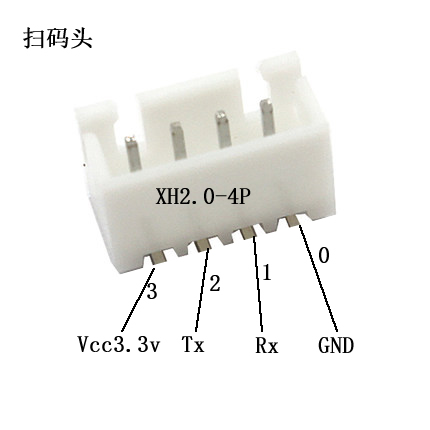
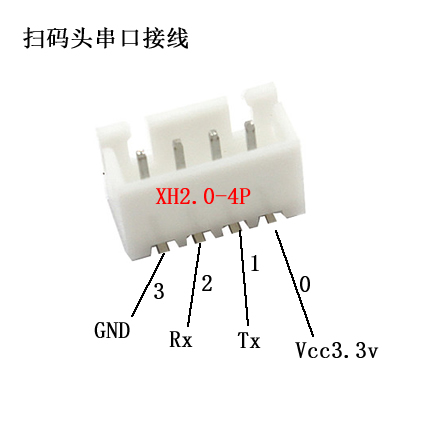
添加更多说明

Changed region(s): [[0.1814, 0.1512, 0.8767, 0.8465], [0.2116, 0.0605, 0.4535, 0.1209]]

diff --git a/README.md b/README.md
@@ -17,6 +17,8 @@
 - V2.0 生产出协议调试设备方便调试使用
 ## 四 历史版本
 
+**当前版本:100,代表v1.0，在握手时如适配此版本应在版本参数给100**
+
 版本|日期|修改者|内容
 ---|---|---|---
 V0.8|20180509|wangjianyi|初稿
@@ -55,7 +57,7 @@ V1.0|20180709|Benny|加入彩票机游戏结束过程
 0|Rx|串口接收TTL3.3v，建议对接的设备（盒子等）使用二极管隔离以防不慎将线插反导致损坏
 1|GND|共地
 2|Tx|串口发送TTL3.3v
-3|Vcc|给对接的设备（盒子等）供电12v
+3|Vcc|给对接的设备（盒子等）供电电压12v,电流200mA
 
 串口通讯规则如下：
 - 电平：TTL3.3v
@@ -75,10 +77,10 @@ V1.0|20180709|Benny|加入彩票机游戏结束过程
 
 脚位|定义|作用
 ---|---|---
-0|GND|共地
-1|Rx|串口接收TTL3.3v
-2|Tx|串口发送TTL3.3v
-3|Vcc|给对接的设备（盒子等）供电12v
+0|Vcc|给扫码头供电3.3v,500mA
+1|Tx|串口发送TTL3.3v
+2|Rx|串口接收TTL3.3v
+3|GND|共地
 
 
 ## 七 数据包基础规则
@@ -111,11 +113,12 @@ START|ADR|PID|LEN|DATA|CHK|END
 
 ### **8.1 握手(PID=0x0301)**
 
-版本:1
-
 数据方向:外接设备->游戏机
 
-说明：外接设备搜索游戏机，此时如果如果收不到游戏机的回应将会间隔500ms进行搜索，推荐如果1分钟内仍然搜索不到则每3秒一次进行搜索，直到连接成功。否则当离线处理
+说明：外接设备搜索游戏机，此时如果如果收不到游戏机的回应将会间隔500ms进行搜索，推荐如果1分钟内仍然搜索不到则每3秒一次进行搜索，直到连接成功。否则当离线处理.为让游戏机厂商开发便利，版本兼容由外接设备自动适配，游戏机只需实现某一版本协议即可，因此外接设备需要及时更新自身所兼容的协议版本。否则可能造成版本不兼容。
+
+版本数字处理为百位以内是非结构性改动可。既如果两个版本数除以100如果相等既代表是天然兼容的，如果不相同则代表需要做兼容代码修改，举例：
+100（v1.00）与104（v1.04），145（v1.45），189（v1.89）只是规则微调不影响参数的意义和内容，当104（v1.04）与205(v2.05)是由新的指令加入或指令的参数意义有变化的。因此不兼容，需要修改代码适配。
 
 外接设备发送内容（DATA）如下:
 
@@ -130,7 +133,7 @@ START|ADR|PID|LEN|DATA|CHK|END
 
 应答参数|长度|说明
 ---|---|---
-协议版本|4Byte|当前使用的本协议版本如：1，需要外接设备根据次数来适配不同版本的协议
+协议版本|4Byte|当前使用的本协议版本如：100，100=V1.0，101=V1.01.需要外接设备根据此数来适配不同版本的协议，当前版本说明一般注明在文档第四章
 厂商标识|4Byte|游戏机厂商标识，第九章名录
 产品标识|4Byte|产品编号，第九章名录
 设备唯一ID|16Byte|相对厂商和产品唯一ID
@@ -141,8 +144,6 @@ P位数|1Byte|此接口控制的P位数
 
 ### **8.2 状态同步(PID=0x0302)**
 
-版本:1
-
 数据方向:外接设备->游戏机
 
 说明：用于外接设备与游戏机进行状态同步，外接设备在空闲时每隔10秒发一次同步, 游戏中每隔1秒
@@ -151,8 +152,7 @@ P位数|1Byte|此接口控制的P位数
 
 发送参数|长度|说明
 ---|---|---
-设备状态|1Byte|0x00=正常，0x01=故障
-故障码|2Byte|详见第十章故障码
+设备状态|2Byte|0x0000=正常，其他=故障码，详见第十章故障码
 
 游戏机回应（PID=0x0382）内容如下:
 
@@ -167,8 +167,6 @@ P位数|1Byte|此接口控制的P位数
 举例：待完善
 
 ### **8.3 投币(PID=0x0303)**
-
-版本:1
 
 数据方向:外接设备->游戏机
 
@@ -194,8 +192,6 @@ P位数|1Byte|此接口控制的P位数
 
 ### **8.4 带中奖信息投币(PID=0x0304)**
 
-版本:1
-
 数据方向:外接设备->游戏机
 
 说明：此场景用于礼品机支付时云端服务对其进行概率干预时使用，超时处理同8.2
@@ -220,8 +216,6 @@ P位数|1Byte|此接口控制的P位数
 
 ### **8.5 通用参数设置(PID=0x0305)**
 
-版本:1
-
 数据方向:外接设备->游戏机
 
 说明：用于远程设置游戏机参数，将模拟机参数设置到机器中，超时时间2秒
@@ -244,8 +238,6 @@ P位数|1Byte|此接口控制的P位数
 
 ### **8.6 恢复出厂参数设置(PID=0x0306)**
 
-版本:1
-
 数据方向:外接设备->游戏机
 
 说明：用于远程设置游戏机参数，将游戏机设置还原成出厂默认参数，超时时间2秒
@@ -265,8 +257,6 @@ P位数|1Byte|此接口控制的P位数
 举例：待完善
 
 ### **8.7 设置娃娃机参数(PID=0x0307)**
-
-版本:1
 
 数据方向:外接设备->游戏机
 
@@ -291,8 +281,6 @@ P位数|1Byte|此接口控制的P位数
 举例：待完善
 
 ### **8.8 设置娃娃机参数(PID=0x0308)**
-
-版本:1
 
 数据方向:外接设备->游戏机
 
